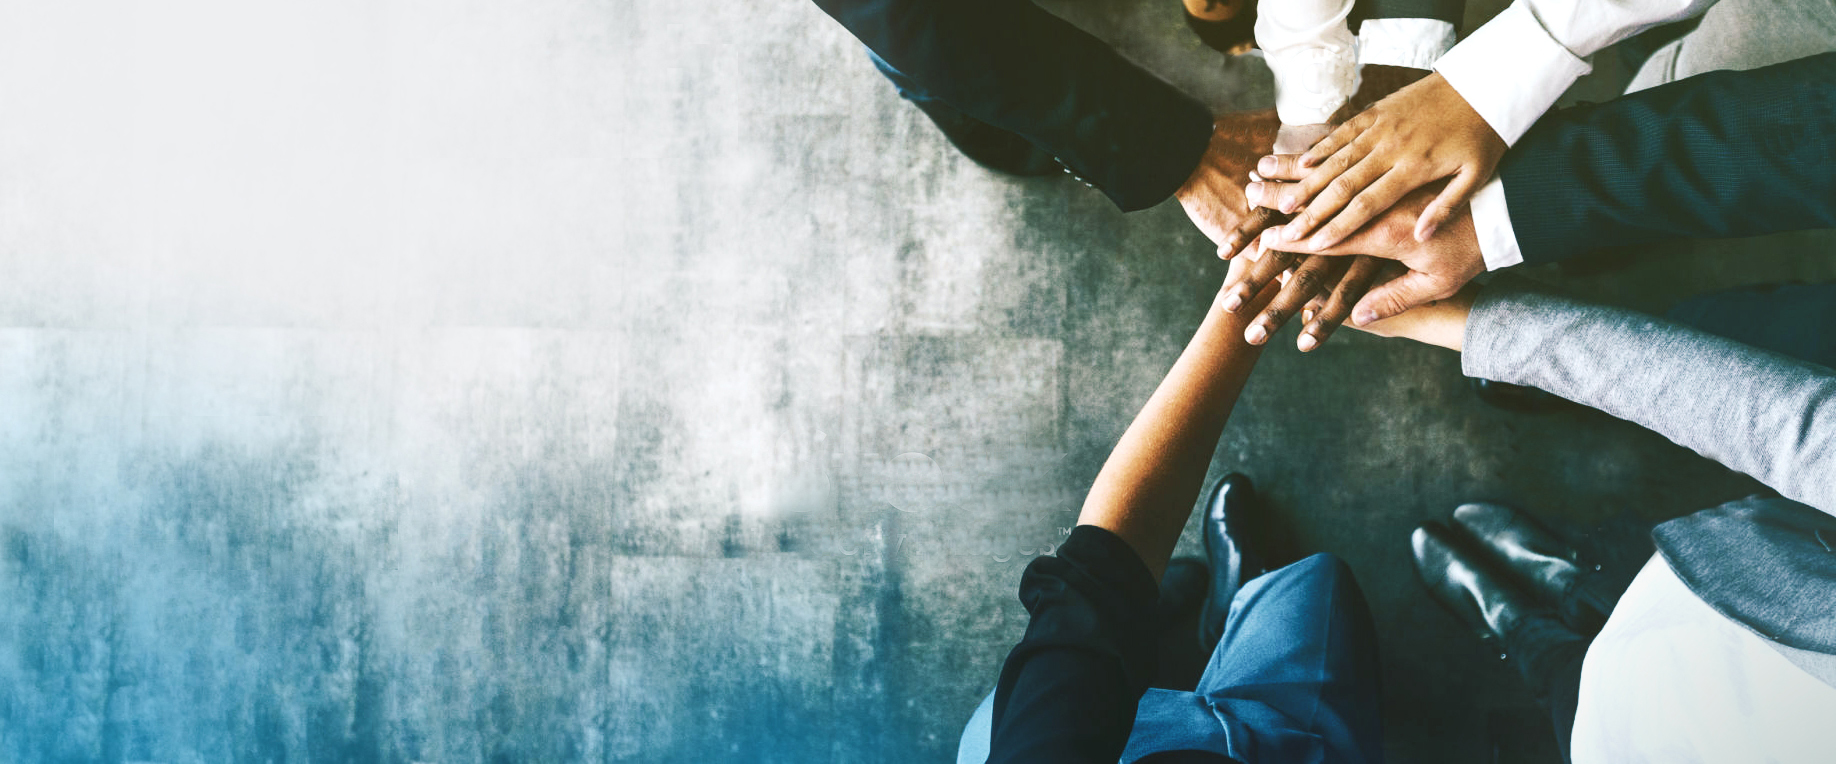
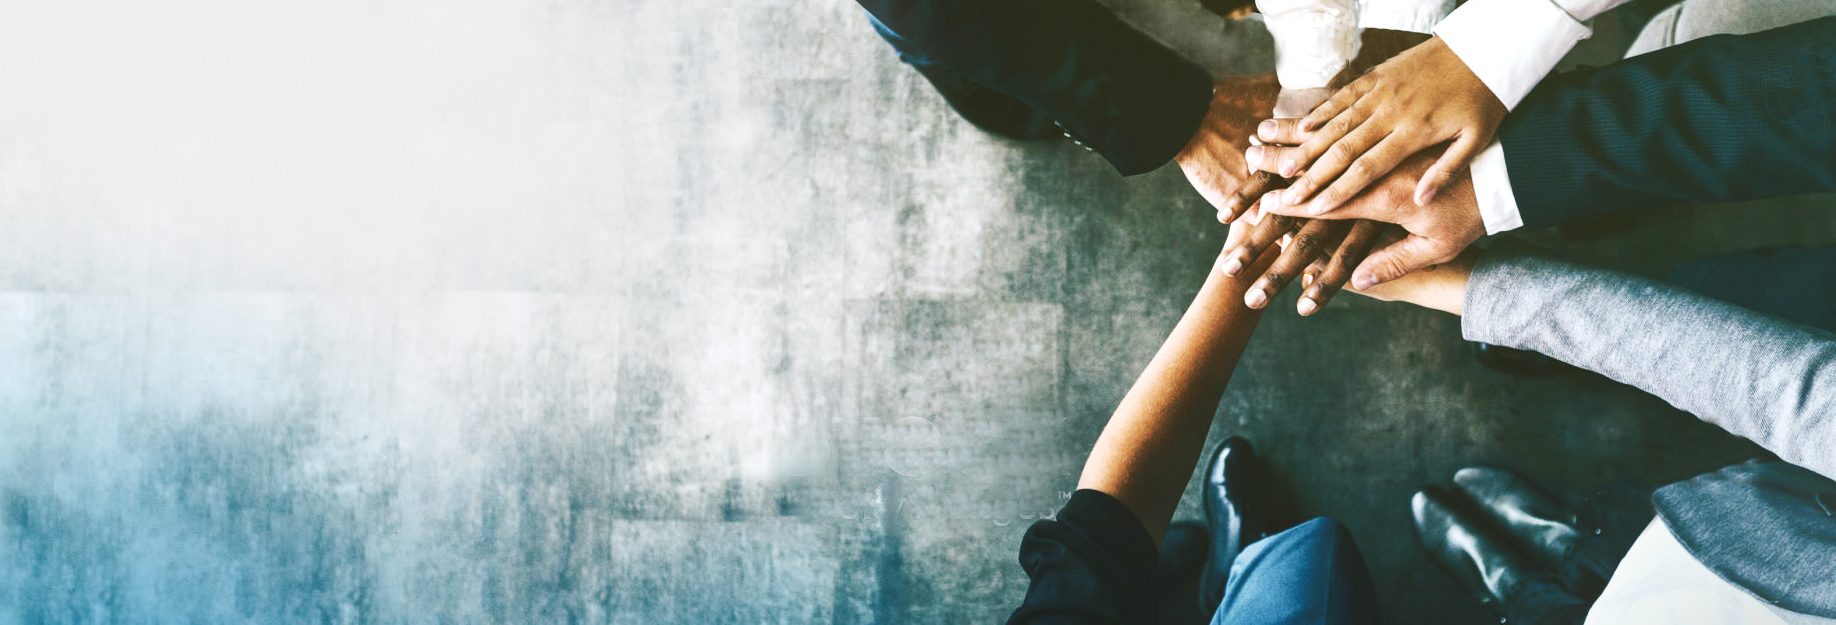
made things smaller

diff --git a/Boundless/styles.css b/Boundless/styles.css
@@ -7,28 +7,30 @@
 }
 
 #logo {
-    margin-top: 7%;
-    margin-left: 9%;
-    width: 16vw;
+    margin-top: 4%;
+    margin-left: 10%;
+    width: 14vw;
 }
 body {
     font-family: 'Roboto', sans-serif;
     margin: 0;
 }
 h1 {
-    margin-left: 9%;
-    font-size: 4.1vw;
-    text-shadow: .5vw 0 .5vw white;
+    margin-top: 1%;
+    margin-left: 10%;
+    font-size: 3.125vw;
+    text-shadow: 0.25vw 0 0.75vw white;
 }
 h5 {
-    margin-left: 9%;
-    /* margin-top: -15px; */
-    font-size: 1.85vw;
+    margin-left: 10%;
+    margin-top: -1%;
+    font-size: 1.5vw;
     text-shadow: .5vw 0 .5vw white;
 }
 h4 {
     margin-bottom: 3%;
-    font-size: 2vw;
+    font-size: 1.8vw;
+    
 }
 /* container that contains the entire div of product thumbnails */
 .products-container {
@@ -36,8 +38,8 @@ h4 {
     margin: 0 auto;
     margin-top: 5%;
     background-color: white;
-    max-width: 85%;
-    box-shadow: .25vw .25vw .5vw #c5c7c7;
+    max-width: 75%;
+    box-shadow: .25vw .25vw .85vw #c5c7c7;
     z-index: 3;
     position: relative;
 }
@@ -50,14 +52,13 @@ h4 {
 .product-thumbnail {
     text-align: center;
     width: 33vw;
-    padding: 8% 0 5% 0;
+    padding: 5% 0 5% 0;
 }
 .product-thumbnail img {
-    height: 23vw;
-    margin-bottom: 5%;
+    height: 15vw;
 }
 .product-thumbnail p{
-    font-size: 1.75vw;
+    font-size: 1.45vw;
     color: gray;
     padding-left: 12%;
     padding-right: 12%;
@@ -89,27 +90,28 @@ footer p {
 @media only screen and (max-width: 768px) {
     #logo {
         margin-top: 5%;
-        margin-left: 7%;
-        width: 50vw;
+        margin-left: 12%;
+        width: 33vw;
     }
     body {
         background-color: #c5c7c7;
     }
     #background {
-        width: 150vw;
-        height: 50%; 
-        left: -22%;
+        width: 226vw;
+        height: 42%;
+        left: -76%;
     }
     h1 {
         margin-top: 0%;
         font-size: 7.1vw;
         text-align: left;
-        margin-left: 8%;
+        margin-left: 13%;
+        padding-right: 4%;
         color: black;
         text-shadow: .25vw 0 .5vw white;
     }
     h5 {
-        margin-left: 8%;
+        margin-left: 13%;
         margin-top: -2%;
         font-size: 4vw;
         text-align: left;
@@ -124,7 +126,7 @@ footer p {
     }
     .product-thumbnail {
         text-align: center;
-        width: 85vw;
+        width: 85%;
         padding-top: 23%;
         margin: 0 auto;
     }
@@ -137,7 +139,7 @@ footer p {
     }
     
     .product-thumbnail p {
-        margin-bottom: 18%;
+        /* margin-bottom: 18%; */
         font-size: 4vw;
     }
     footer p {

diff --git a/Boundless/index.html b/Boundless/index.html
@@ -10,9 +10,9 @@
 </head>
 <body>
     <div class="header">
-        <img src="images/HandsBackground.jpg" id="background" alt="hands together showing teamwork">
+        <img src="images/HandsBackground-short.jpg" id="background" alt="hands together showing teamwork">
         <img src="images/logo-large.png" id="logo" alt="BoxIt logo">
-        <h1>Welcome to the BoxIt <br/>
+        <h1>Welcome to the
         Merchandise Hub</h1>
         <h5>Make a selection below to begin shopping.</h5>
     </div>
